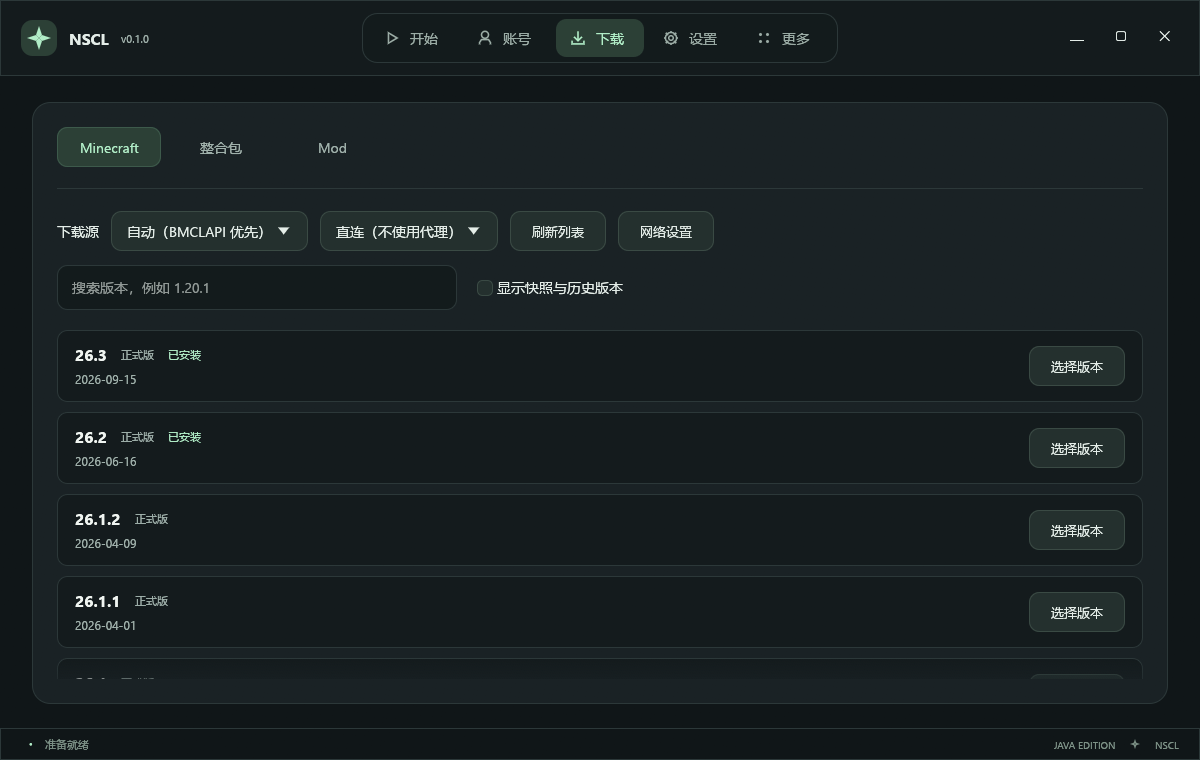
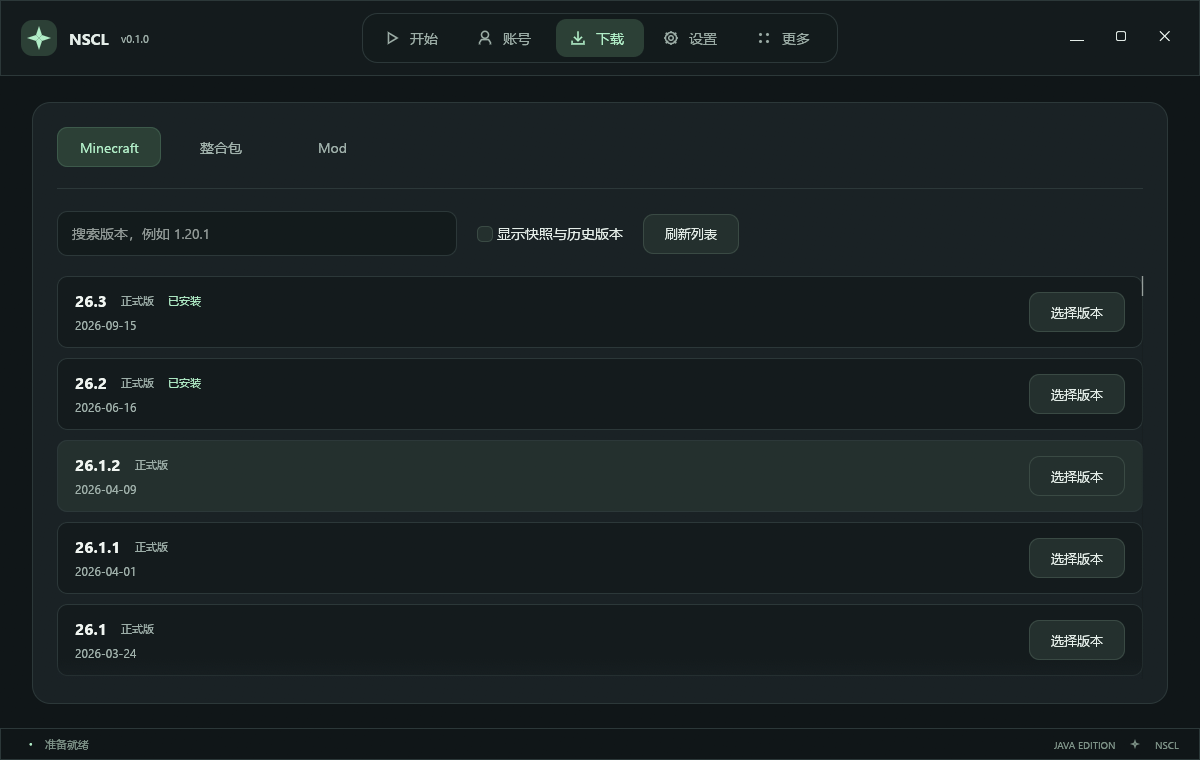
ui: simplify downloads and hide network controls

diff --git a/src/pages.rs b/src/pages.rs
@@ -1097,61 +1097,27 @@ pub(crate) fn download_status_height(app: &NsclApp) -> f32 {
 }
 
 fn minecraft_downloads(ui: &mut Ui, app: &mut NsclApp) {
-    let before = (app.settings.source.kind, app.settings.source.proxy_mode);
-    let mut refresh = false;
-    ui.add_enabled_ui(!app.service.busy(), |ui| {
-        theme::toolbar(ui, |ui| {
-            ui.label("下载源");
-            egui::ComboBox::from_id_salt("catalog-download-source")
-                .width(165.0)
-                .selected_text(app.settings.source.kind.label())
-                .show_ui(ui, |ui| {
-                    for kind in crate::minecraft::SourceKind::ALL {
-                        ui.selectable_value(&mut app.settings.source.kind, kind, kind.label());
-                    }
-                })
-                .response
-                .on_hover_text("自动模式：BMCLAPI（bangbang93）→ minguncle → 官方源；连接或校验失败时切换到下一来源。");
-            egui::ComboBox::from_id_salt("catalog-proxy-mode")
-                .width(175.0)
-                .selected_text(app.settings.source.proxy_mode.label())
-                .show_ui(ui, |ui| {
-                    for mode in crate::minecraft::ProxyMode::ALL {
-                        ui.selectable_value(
-                            &mut app.settings.source.proxy_mode,
-                            mode,
-                            mode.label(),
-                        );
-                    }
-                });
-            refresh = download_button(ui, "刷新列表", true);
-            if download_button(ui, "网络设置", true) {
-                app.page = Page::Settings;
-            }
-        });
-    });
-    if before != (app.settings.source.kind, app.settings.source.proxy_mode) {
-        app.service.invalidate_versions();
-    }
+    app.service.ensure_versions_loaded(&app.settings, ui.ctx());
+    let search_width = (ui.available_width() * 0.42).clamp(240.0, 400.0);
+    let refresh = ui
+        .horizontal(|ui| {
+            ui.spacing_mut().item_spacing.x = 20.0;
+            let response = ui.add(
+                egui::TextEdit::singleline(&mut app.service.search)
+                    .font(FontId::proportional(14.0))
+                    .frame(input_frame())
+                    .margin(Vec2::new(14.0, 10.0))
+                    .hint_text("搜索版本，例如 1.20.1")
+                    .desired_width(search_width),
+            );
+            input_focus(ui, &response);
+            ui.checkbox(&mut app.service.snapshots, "显示快照与历史版本");
+            download_button(ui, "刷新列表", !app.service.busy())
+        })
+        .inner;
     if refresh {
         app.service.load_versions(&app.settings, ui.ctx());
     }
-    app.service.ensure_versions_loaded(&app.settings, ui.ctx());
-    ui.add_space(14.0);
-    let search_width = (ui.available_width() * 0.42).clamp(240.0, 400.0);
-    ui.horizontal(|ui| {
-        ui.spacing_mut().item_spacing.x = 20.0;
-        let response = ui.add(
-            egui::TextEdit::singleline(&mut app.service.search)
-                .font(FontId::proportional(14.0))
-                .frame(input_frame())
-                .margin(Vec2::new(14.0, 10.0))
-                .hint_text("搜索版本，例如 1.20.1")
-                .desired_width(search_width),
-        );
-        input_focus(ui, &response);
-        ui.checkbox(&mut app.service.snapshots, "显示快照与历史版本");
-    });
     ui.add_space(20.0);
     let status_height = download_status_height(app);
     let list_height = (ui.available_height() - status_height).max(80.0);

diff --git a/src/service/tests.rs b/src/service/tests.rs
@@ -202,7 +202,7 @@ fn manifest_failure_preserves_the_catalog_and_does_not_retry_during_rendering() 
     assert!(!app.service.busy());
     assert_eq!(app.service.versions[0].id, "1.20.1");
     let output = frame(&ctx, &mut app, Vec2::new(876.0, 390.0), vec![]);
-    for label in ["刷新列表", "网络设置", "跟随系统代理", "1.20.1"] {
+    for label in ["刷新列表", "1.20.1"] {
         let rect = text_rect(&output, label);
         assert!(rect.min.y >= 0.0 && rect.max.y < 390.0 && rect.max.x < 876.0);
     }

diff --git a/docs/launcher-ui-references.md b/docs/launcher-ui-references.md
@@ -6,13 +6,13 @@
 | --- | --- | --- |
 | [HMCL](https://hmcl.huangyuhui.net/) | 游戏安装页将 Minecraft、加载器及附加组件分组，并显示互斥关系 | 已有分步安装与加载器兼容筛选；后续可增加安装确认页中的组件摘要和兼容性说明 |
 | [PCL](https://github.com/Meloong-Git/PCL/blob/main/Plain%20Craft%20Launcher%202/Pages/PageDownload/PageDownloadLeft.xaml) | 下载导航区分原版游戏、Mod、整合包、数据包、资源包和光影包 | 目前支持前三类；资源包、光影包和数据包可作为后续扩展，不能把尚未实现的分类展示成可用功能 |
-| [Axolotl Launcher](https://axlmc.org/) | 按实例集中管理内容，资源设置提供不同连接与下载来源选项，并提供备份入口 | 已有实例、模组管理及多游戏目录；本次补充下载页的连接方式、下载源切换和就地恢复入口；后续可增加存档备份与恢复入口 |
+| [Axolotl Launcher](https://axlmc.org/) | 按实例集中管理内容，资源设置提供不同连接与下载来源选项，并提供备份入口 | 已有实例、模组管理及多游戏目录；下载来源在后台自动切换，手动选项集中在设置页；后续可增加存档备份与恢复入口 |
 
 本次保留 NSCL 当前的深色配色、顶部导航和卡片布局，优先改进失败后如何继续操作，而不是更换整套视觉风格。关于页新增三个项目的名称与仓库链接，标明设计参考与致谢。
 
 ## 下载与网络恢复
 
-- Minecraft 下载页默认自动选择下载源，依次尝试 **BMCLAPI（bangbang93）→ minguncle → 官方源**，连接失败或校验不通过时切换到下一来源；仍可手动指定下载源。页面直接显示下载源、连接方式、刷新和网络设置入口；修改后应用于当前运行，长期保留需在设置中保存。
+- Minecraft 下载页由后台自动选择下载源，依次尝试 **BMCLAPI（bangbang93）→ minguncle → 官方源**，连接失败或校验不通过时切换到下一来源。下载页仅保留版本搜索、筛选和刷新，不显示下载源、代理方式或网络设置入口；需要手动指定来源或连接方式时可进入设置页。
 - 刷新版本列表时保留已有结果，失败后仍可浏览已有列表；首次加载失败可重新加载。
 - 默认继续跟随系统代理。选择直连后，游戏下载、加载器与 Modrinth 请求不使用代理，不修改 Windows 代理配置，也不静默回退到直连。
 - 网络弹窗显示简短原因与操作建议，原始错误保存在可展开的「技术详情」中，并可完整复制。版本列表加载失败提供重试；代理相关失败提供显式的「切换直连并重试」。安装、导入等修改文件的操作不会从弹窗中自动重跑。

diff --git a/README.md b/README.md
@@ -64,7 +64,7 @@ NSCL 将游戏安装、账号、实例与模组管理放在一个原生窗口里
 BMCLAPI（bangbang93） → minguncle → Mojang / 对应资源官方源
 ```
 
-连接失败或文件校验不通过时切换到下一来源。下载页可查看和切换来源、选择系统代理或直连、刷新列表；网络错误提供重试入口与可展开的技术详情。刷新失败会保留当前已加载的版本列表。
+连接失败或文件校验不通过时，后台自动切换到下一来源。下载页只保留版本搜索、筛选与刷新等操作，无需手动选择来源；网络错误提供重试入口与可展开的技术详情。刷新失败会保留当前已加载的版本列表。
 
 也可手动指定单个下载源或兼容 BMCLAPI 的自定义镜像。上述镜像接力适用于受支持的 Minecraft、加载器、依赖库与资源地址；Modrinth API、账号登录等请求沿用各自的服务地址。
 
